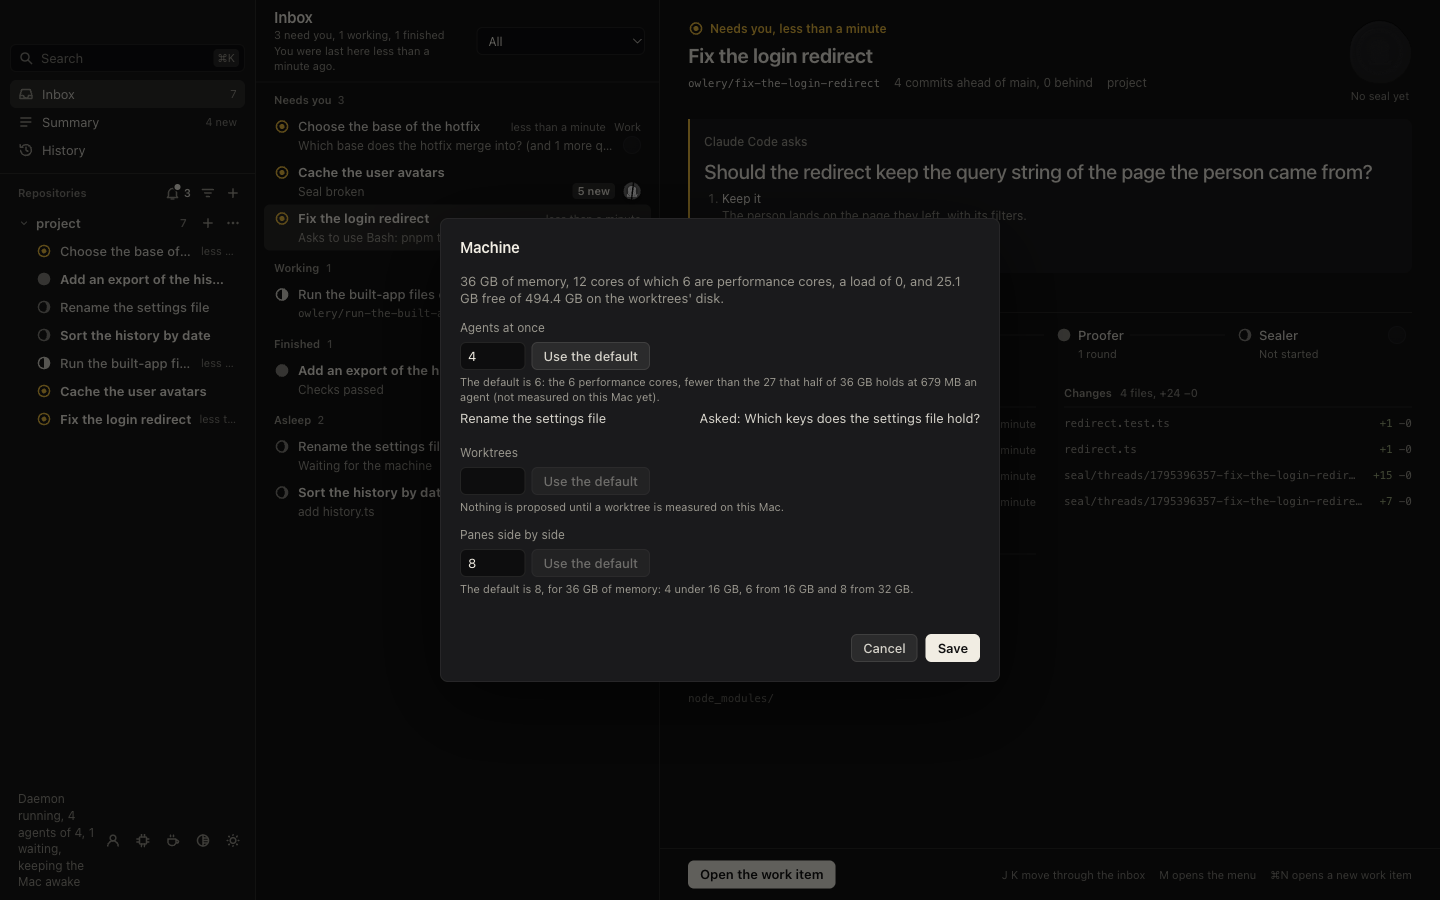
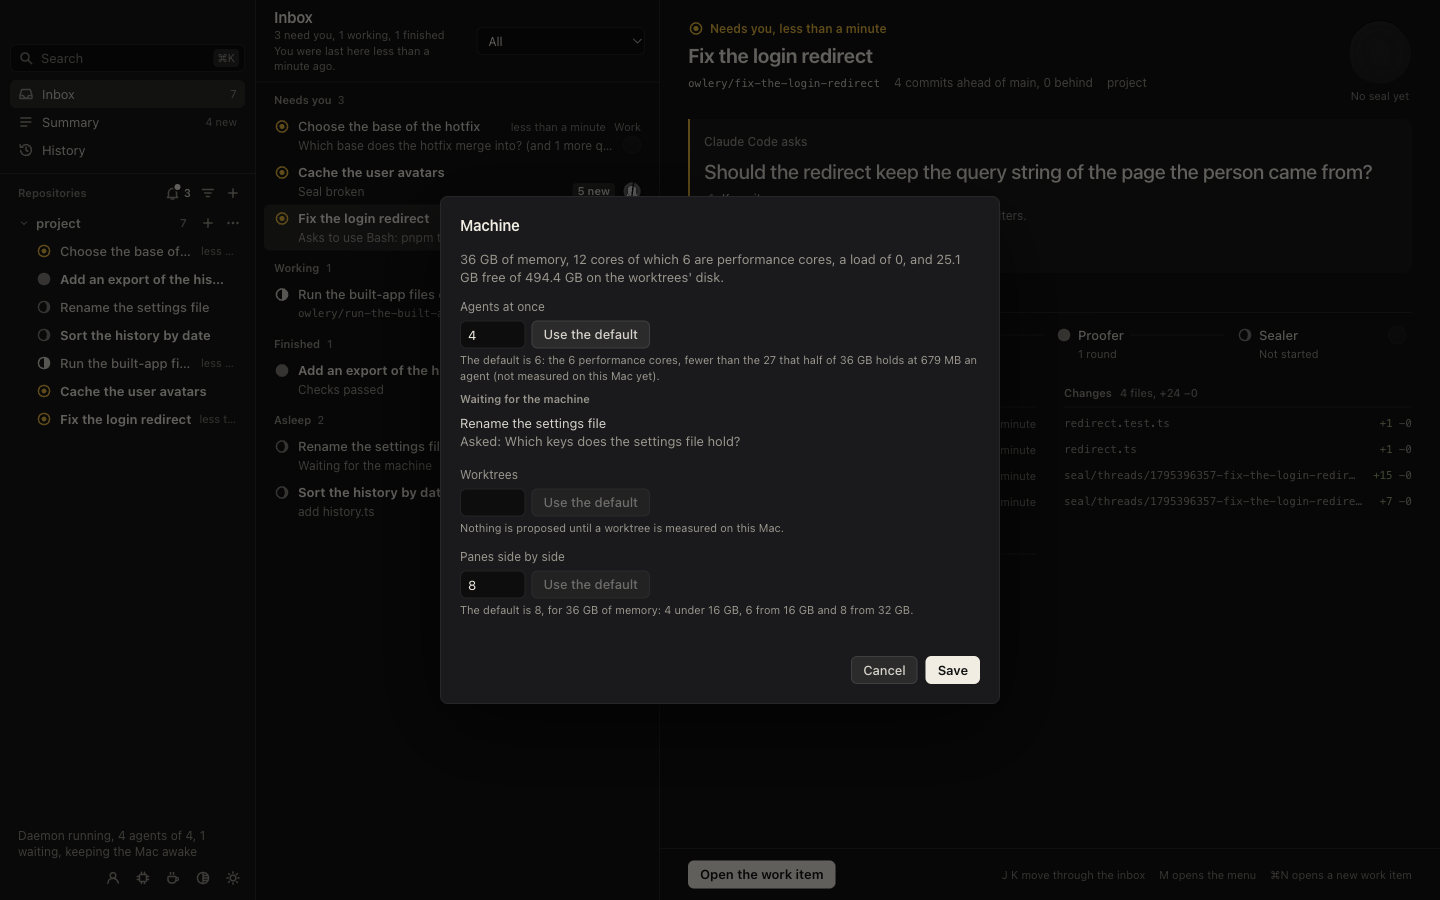
docs: shoot the inbox and the Machine dialog again with the status line on its own row and the queue labelled
From the screenshot run at c290ca9, in Night watch's dark and light
appearances. The phase record says what the two fixes changed, their
cases, reds and mutants, and gaps.md no longer names the status line's
wrap as not done.

Seal-Routing: 1795559736-caps-on-worktrees-and-agents

diff --git a/seal/threads/1795559736-caps-on-worktrees-and-agents/trail/phases/phase-5.md b/seal/threads/1795559736-caps-on-worktrees-and-agents/trail/phases/phase-5.md
@@ -10,16 +10,31 @@ The frame held. Before building, the crafter read `apps/desktop/test/screenshots
 
 **The inbox's shot waits for that line, and a new shot opens the Machine dialog.** The inbox's wait now also requires the line of "Rename the settings file" to say "Waiting for the machine". The new view `machine` opens the dialog over the inbox, and waits until the dialog lists the session under the cap on agents as "Rename the settings file" and "Asked: Which keys does the settings file hold?". Cancel closes it and keeps every cap. `test/screenshots.ts#VIEWS` gains `machine` last, so each theme and appearance writes one more file. A run of all three themes writes 72 files.
 
-**The pull request carries four screenshots, in `screenshots/` of this work item's records.** They are the inbox and the Machine dialog in Night watch's dark and light appearances, from the run at `67cfdff`, committed in `c1074a7`. `docs/design.md` *A pull request that changes the window carries its screenshots* asks for each view the work item changed in those two appearances. It also asks for each other theme that draws the changed part differently. The run was made once, as the spawn asked, with no theme named, so it made Night watch's alone. Whether the line that waits and the dialog draw differently in Register and Desk is the review's to judge against that section. The form's warning (phase 3) shows in no shot. The scene's Mac has 25.1 GB free and no measured worktree, so neither warning applies. *Scope* item 15 names no view of it.
+**The pull request carries four screenshots, in `screenshots/` of this work item's records.** They are the inbox and the Machine dialog in Night watch's dark and light appearances. The first run, at `67cfdff`, was committed in `c1074a7`. After the two fixes below, the run was made again at `c290ca9` and its four files replaced those. `docs/design.md` *A pull request that changes the window carries its screenshots* asks for each view the work item changed in those two appearances. It also asks for each other theme that draws the changed part differently. Each run was made once and alone, as the spawn asked, with no theme named, so it made Night watch's alone. Whether the line that waits and the dialog draw differently in Register and Desk is the review's to judge against that section. The form's warning (phase 3) shows in no shot. The scene's Mac has 25.1 GB free and no measured worktree, so neither warning applies. *Scope* item 15 names no view of it.
 
-**The shots show the status line in six lines at the sidebar's foot.** With "keeping the Mac awake", the status line reads "Daemon running, 4 agents of 4, 1 waiting, keeping the Mac awake". The sidebar's foot wraps it across six lines, beside the foot's five buttons, in both appearances. This work item added "of 4" and ", 1 waiting" to that line. No row of the plan builds the foot's layout, so this phase does not change it. `gaps.md` names it for the review.
+**The first shots showed two defects of this work item's own words, and the orchestrator ruled both fixed before review (`c290ca9`).** The orchestrator records the ruling in `frame/plan.md` *Judgments of the run*.
+
+- **The status line wrapped across six lines at the sidebar's foot.** It shared its row with the foot's five buttons. With the agents against their cap, a session that waits and the Mac kept awake, it reads "Daemon running, 4 agents of 4, 1 waiting, keeping the Mac awake", and this work item added "of 4" and ", 1 waiting" to it. The foot now wraps: the status line takes a row of its own, the foot's whole width, and the buttons stand under it at the row's end, where they stood before (`renderer/index.html`, the rules on `#sidebar-foot` and `#status`). The sidebar is 256 px wide at any window size, so the sentence reads on two lines in the shots at `c290ca9`.
+- **The Machine dialog's queue had no label.** Its sessions stood under the agent row's sentence, each work item's name at the left and what it waits to run at the right, as the dialog's other lists stand. They now stand under the label "Waiting for the machine", which is hidden while none waits. Each session is its work item's name, and on the line under it, in the secondary colour of the defaults' sentences, what it waits to run, both at the label's left (`renderer/machine.ts#showMachine`, and the rules on `#machine-caps .cap-queue` in `renderer/index.html`). The list is labelled by the label for a screen reader.
+
+No case read the foot's layout, and no built-app case drew the queue. `machine-dialog.test.ts` gains two cases. The first puts the screenshot's sentence in the status line and reads it within one script: its box is as wide as the foot's inside, it stands on two lines at most, and every button shown stands under it. The second is a third start of the app, whose login shell is the screenshot run's stand-in, so the sessions a person asks run the stand-in for the CLI, with a cap on agents of 1 written before the start. The dialog is open, shows no label, and then a held prompt works and a second waits. The case reads the label, and each session's name and prompt, the prompt under the name, both at the label's left, and the prompt in the colour of the defaults' sentences.
 
 **A comment the fold named.** `shared/protocol.ts`, the comment on `HeadlessInfo.queuedAt`, said the field was null for a session that never waited. The daemon leaves the field out of such a session, as phase 2's record states. The comment now says so (`f174036`). The type still reads `number | null`, as `frame/design.md` *Data & interfaces* states it.
 
 **The fragment.** `changelog.md` follows the shape of the fragments that release 0.0.2 merged: one opening paragraph, then one bullet for each thing a person sees. A bullet says what no test measured, a bullet says what an update does, and the last bullet is for a client of the daemon. Each sentence and example in it was read against the code at `67cfdff`: the sentences of `shared/machine.ts`, `view.ts#machineWaits` and `#lineText`, `daemon.ts#planDisk` and `#largestWorktree`, and the `setCaps` arm of the daemon. This work item's diff changes no file of the AgenticSeal process, so the fragment carries no `### Process changes` table (`docs/layout/the-record-layout.md` *A change writes fragments, never a shared file*, read in the plugin).
 
-**The reds.** `view.test.ts`'s pattern does not apply here: phase 5 adds no behaviour to the app. The case of `screenshots.test.ts` that names each shot's file now expects the Machine dialog's files and a count of 72. Against the tree before the change of `VIEWS`, it failed: it expected 24 files and the list held 22 (`executed`). After the change, the file's cases passed: 7 passed and 1 skipped, the run's own describe being skipped without `OWLERY_SCREENSHOTS`.
+**The reds.** Against the tree before `c290ca9`, the foot's case failed on its width, the sentence's box 77 px against the foot's 227 px inside, and the queue's case failed on its label, which read the element before the list, the defaults' sentence. The other six cases of the file passed. After the fix all 8 passed. Before the fixes, phase 5 added no behaviour to the app. The case of `screenshots.test.ts` that names each shot's file now expects the Machine dialog's files and a count of 72. Against the tree before the change of `VIEWS`, it failed: it expected 24 files and the list held 22 (`executed`). After the change, the file's cases passed: 7 passed and 1 skipped, the run's own describe being skipped without `OWLERY_SCREENSHOTS`.
 
-**No mutation run.** The phase adds no unit of the app. It changes a test file, a test helper and one comment. The run's new waits each throw with a sentence where the daemon keeps no cap or queues no session. Showing that under a mutant would take another screenshot run, and the spawn asked for one run.
+**The mutation runs.** Each mutant of the fix ran alone through `seal mutate` over its case, after `c290ca9` was committed, and all 5 went red, each on the line of the guard it broke:
 
-**The *Phase boundary* set was the file the plan row names, `apps/desktop/test/screenshots.test.ts`, in both of its modes.** No other test file imports `test/screenshots.ts`. The comment in `shared/protocol.ts` changes no code. The cases passed on the tree that `67cfdff` commits: 7 passed and 1 skipped. `pnpm run screenshots` ran once at `67cfdff`, with `OWLERY_BACKGROUND=1`, after no Owlery run was going. It passed: 1 case passed and 7 skipped, and it wrote 24 files of 1440 by 900. A typecheck of the two changed test files with `renderer.ts` passed.
+| Mutant | The line that went red |
+|---|---|
+| `#status` back to `flex: 1`, sharing its row | The sentence's width, 77 against 227 |
+| The label always hidden | `label`, null, and `aligned` |
+| The label shown while none waits | `label` before any session waits |
+| The name and the prompt as inline spans | `under` and `aligned` |
+| The prompt in the ink of the name | `muted` |
+
+The screenshot run's new waits were not run under a mutant: each throws with a sentence where the daemon keeps no cap or queues no session, and showing that would take another screenshot run.
+
+**The *Phase boundary* set was the file the plan row names, `apps/desktop/test/screenshots.test.ts`, in both of its modes, and for the fixes the file whose cases they changed, `apps/desktop/test/machine-dialog.test.ts`.** No other test file imports `test/screenshots.ts`. The comment in `shared/protocol.ts` changes no code. The cases passed on the tree that `67cfdff` commits: 7 passed and 1 skipped. `pnpm run screenshots` ran once at `67cfdff`, with `OWLERY_BACKGROUND=1`, after no Owlery run was going. It passed: 1 case passed and 7 skipped, and it wrote 24 files of 1440 by 900. A typecheck of the two changed test files with `renderer.ts` passed. After the fixes, `machine-dialog.test.ts` passed alone on the tree `c290ca9` commits: 8 cases. `pnpm run screenshots` ran once more at `c290ca9`, alone and with `OWLERY_BACKGROUND=1`, and passed with its 24 files.

diff --git a/seal/threads/1795559736-caps-on-worktrees-and-agents/gaps.md b/seal/threads/1795559736-caps-on-worktrees-and-agents/gaps.md
@@ -15,8 +15,6 @@
 
 ## Not done
 
-**The status line wraps across six lines at the sidebar's foot.** With the cap, the agents that wait and the Mac kept awake, it reads "Daemon running, 4 agents of 4, 1 waiting, keeping the Mac awake", and the foot, beside its five buttons, wraps it across six lines in both appearances of Night watch (`screenshots/`). No row of the plan builds the foot's layout, so the build leaves it; how the foot holds a longer status line is the review's, against `docs/design.md`.
-
 **A worktree is read at its first size.** The daemon measures a worktree once: after its setup, or at the first start of a daemon that measures worktrees. A worktree that grows afterwards, through an install or a build, is still counted at that size, in the worktree cap's proposal and in what a plan says the repository's next worktree needs. A worktree whose files were removed is counted at its first size as well (`frame/design.md` *Scope*, the item on measuring a worktree again in its list of what is out).
 
 **An agent's memory is its resident size.** The daemon reads `ps -o pid=,rss=`, the resident set of the agent's own process, and not the footprint Activity Monitor shows. A resident size can read under the footprint while macOS compresses memory, so on a Mac under pressure the proposal can allow more agents than the memory holds (`frame/plan.md` *Alternatives considered*, the row on `footprint`). The process measured is the pane's own and the Claude Code CLI a headless session runs, not their children.
